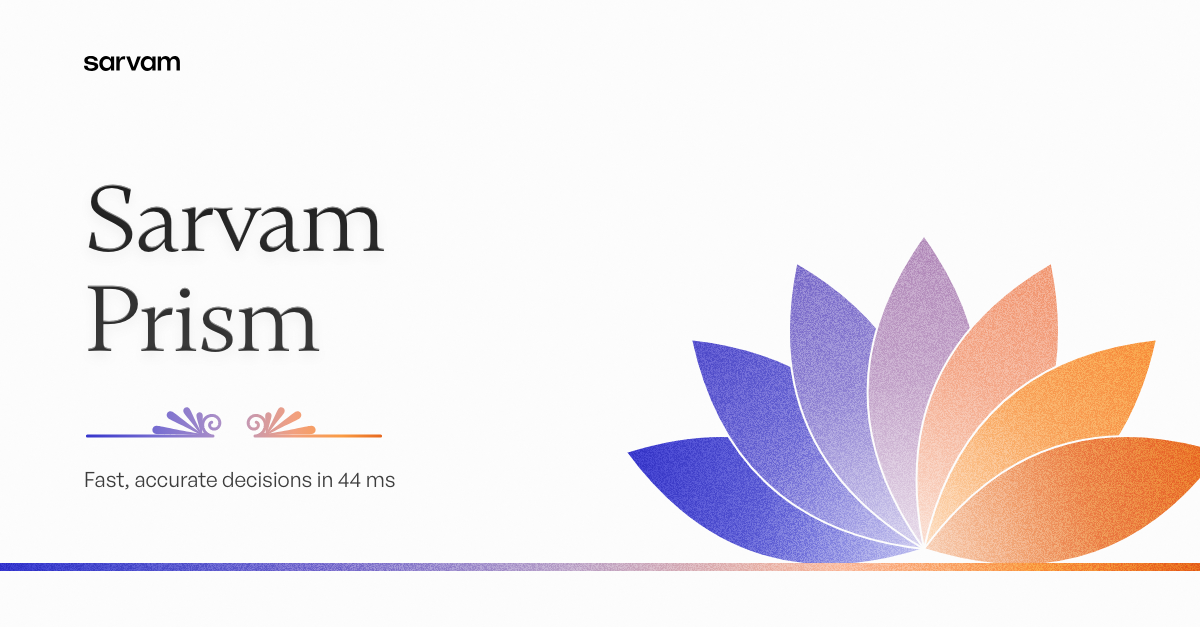
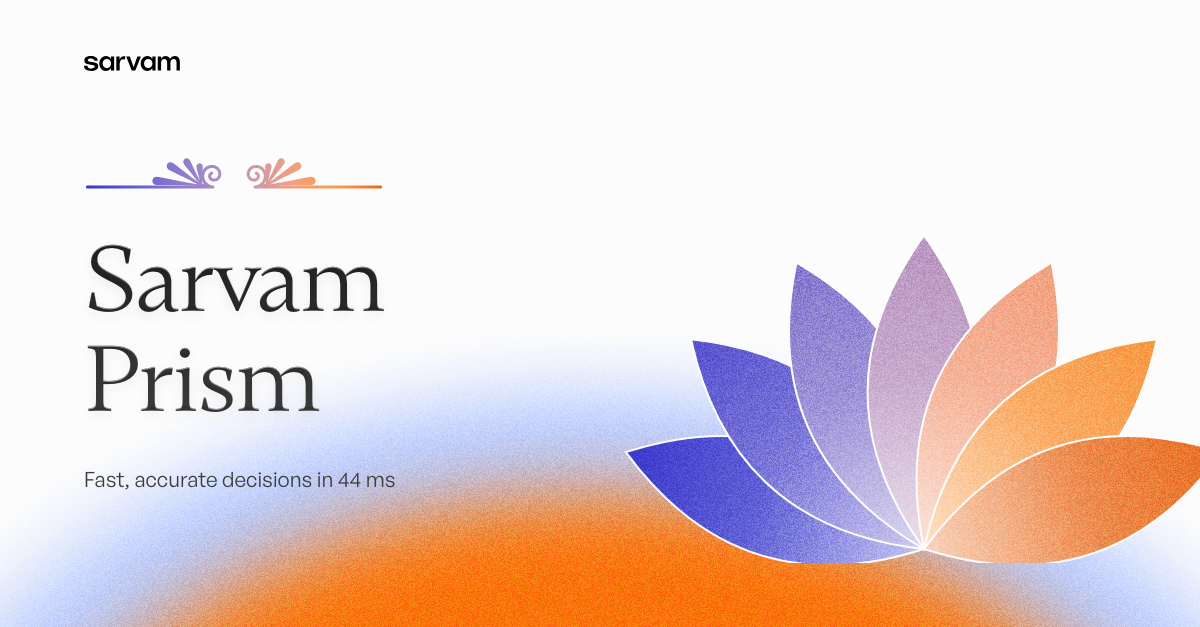
Prism rise: bottom sunrise horizon; dividers always above the headline

Changed region(s): [[0.0, 0.2424, 1.0, 1.0]]

diff --git a/src/components/sarvam/composer.tsx b/src/components/sarvam/composer.tsx
@@ -31,7 +31,8 @@ export type BannerSpec = {
   logo?: "wordmark" | "logomark";  // logomark = the official lotus symbol, used alone (logo.md: never beside the wordmark)
   card?: "plan" | "research" | "review";   // product moment shown inside the device (split / stacked only); arch-window shows it through the arch
   icon?: EmblemIcon;               // emblem device: the one object that stands for the subject
-  divider?: string;                // a /studio divider preset between headline and supporting line, drawn in the spectrum
+  divider?: string;                // a /studio divider preset ABOVE the headline (always the first thing in the text block), drawn in the spectrum
+  horizon?: "top" | "bottom";      // the hero's Sun gradient as a horizon from one edge, reaching about half way
   ornament?: Ornament;             // spectrum device: one SOLID shape in the spectrum (supersedes the line rosettes)
   place?: "corner" | "rise" | "center" | "small";   // where the ornament sits; the text takes the space it leaves
   petals?: number;                 // lotus / petal: petal count (corner/center: full flower; rise: an upward fan)
@@ -474,7 +475,8 @@ function ornamentDevice(spec: BannerSpec, F: Frame, id: string, land: boolean, s
         <defs><clipPath id={k("clip")}><rect x={0} y={0} width={F.W} height={stripY} /></clipPath></defs>
         <g clipPath={`url(#${k("clip")})`}>{els}</g>
       </svg>
-      <div aria-hidden style={{ position: "absolute", left: 0, right: 0, top: stripY, height: stripH, background: SPECTRUM }} />
+      {/* a bottom horizon replaces the strip (the horizon is the colour moment; a strip on it would sink) */}
+      {spec.horizon !== "bottom" && <div aria-hidden style={{ position: "absolute", left: 0, right: 0, top: stripY, height: stripH, background: SPECTRUM }} />}
     </>
   );
   const centred = !land && (place === "rise" || place === "center");
@@ -494,6 +496,16 @@ function SpectrumDivider({ name, width, id, dark }: { name: string; width: numbe
       </linearGradient></defs>
       <g dangerouslySetInnerHTML={{ __html: html }} />
     </svg>
+  );
+}
+
+/** Horizon: the /system hero's Sun disc (tokens --gradient-sun), entering from one edge so its arc reaches about half the
+ *  frame. The disc keeps the hero's proportions (1622 × 872, widened 1.35× like the hero); bottom = mirrored, a sunrise. */
+function Horizon({ W, H, edge }: { W: number; H: number; edge: "top" | "bottom" }) {
+  const dh = H, dw = (dh * 1622) / 872;                      // visible arc ≈ half the disc height = H / 2
+  return (
+    <div aria-hidden style={{ position: "absolute", left: (W - dw) / 2, top: (edge === "top" ? 0 : H) - dh / 2, width: dw, height: dh,
+      backgroundImage: "var(--gradient-sun)", transform: `scaleX(1.35)${edge === "bottom" ? " scaleY(-1)" : ""}`, pointerEvents: "none" }} />
   );
 }
 
@@ -763,6 +775,7 @@ function BannerImpl({ spec, format, id }: { spec: BannerSpec; format: BannerForm
   const markTone = DARK_BG.has(spec.background) ? "white" : "black";
   return (
     <div data-banner={format} style={{ position: "relative", width: F.W, height: F.H, overflow: "hidden", background: spec.background === "plain" ? "var(--color-sf)" : `var(--gradient-${spec.background})` }}>
+      {spec.horizon && <Horizon W={F.W} H={F.H} edge={spec.horizon} />}
       {layer}
       {/* Seamless grain: one pre-generated noise image (1200×1350, decoded once, no live filter) */}
       {/* eslint-disable-next-line @next/next/no-img-element */}
@@ -774,9 +787,9 @@ function BannerImpl({ spec, format, id }: { spec: BannerSpec; format: BannerForm
       {spec.mark === "bottom" && <Lockup logomark={spec.logo === "logomark"} tone={markTone} width={markW} partner={spec.partner} style={{ position: "absolute", bottom: land ? 36 : F.M, left: 0, right: 0, justifyContent: "center" }} />}
       <div data-qa="open" style={{ position: "absolute", left: open.x, top: open.y, width: open.w, height: open.h, display: "flex", flexDirection: "column", alignItems: align === "left" ? "flex-start" : "center", justifyContent: editorial ? D.textJustify ?? "flex-end" : layout === "split" ? "flex-start" : "center", gap: S.gap, textAlign: align }}>
         {spec.mark === "inside" && layout === "centered" && <Lockup logomark={spec.logo === "logomark"} tone={onLight ? "black" : "white"} width={markW} partner={spec.partner} style={{ marginBottom: S.gap * 0.7, opacity: onLight ? 0.9 : 1 }} />}
+        {spec.divider && <SpectrumDivider name={spec.divider} width={dividerW} id={id} dark={DARK_BG.has(spec.background)} />}
         {spec.secondaryPlace === "above" && secondary}
         {primary}
-        {spec.divider && <SpectrumDivider name={spec.divider} width={dividerW} id={id} dark={DARK_BG.has(spec.background)} />}
         {spec.secondaryPlace !== "above" && secondary}
       </div>
     </div>

diff --git a/design-system/design.md b/design-system/design.md
@@ -1990,7 +1990,7 @@ Every Sarvam banner is a **composition of a few choices + at most two lines of t
    | `gateway-echo` | 5 thin outline gateways rising from the bottom | Announcements |
       | `gloss` | Mirrored cluster of glossy studio shapes | Events, programs, community |
    | `spectrum` | **Our taste** `[addition]`: a calm off-white canvas, one thin hard-edged strip of the brand spectrum (indigo → orange) near the bottom, and a **rosette** in the top-right corner, cropped by the corner. It is built the way Sarvam's logomark is built: **one element repeated around a centre** `rosette`: **circles** (default: 12 equal circles through one centre, the logomark's construction), **lens** (8 broad vesica petals, a lotus about 1.3× the size of the line rosettes, petal width 0.36 × length; `rosetteSolid: true` fills each petal with a gradient from a pale tint of its hue at the centre to the full hue at the tip, with a 2.5px canvas-coloured edge between petals), **orbits** (6 equal ellipses turned by 30°), **rings** (6 concentric circles, the hue stepping outward), **lobes** (12 rounded petals). Every copy is the same line (4.5px Meta, 3.5px LinkedIn), and each one takes a hue of the spectrum by its direction: indigo toward the canvas, orange toward the corner. Text is set left and low (`editorial` layout). | Model launches and announcements that should feel calm and precise |
-   | `spectrum` + `ornament` | The spectrum family's **solid** shapes: `lotus` (`petals`), `quatrefoil`, `star`, `ogee`, `arch`, each filled with the spectrum (lotus petals: pale base → full hue; solids: a spectrum fill + a pale centre). `place`: **corner** (lotus cropped by the corner; solids whole in the top-right), **rise** (stands on the strip: an upward fan or the arch; on LinkedIn it moves right and the text goes left), **center** (a centred bloom above centred text; on LinkedIn the bloom goes right), **small**. `ornamentTone: "white"` for tone-on-tone. Optional `divider`: a /studio divider preset between headline and supporting line, drawn in the spectrum | One family, a different shape per subject |
+   | `spectrum` + `ornament` | The spectrum family's **solid** shapes: `lotus` (`petals`), `quatrefoil`, `star`, `ogee`, `arch`, each filled with the spectrum (lotus petals: pale base → full hue; solids: a spectrum fill + a pale centre). `place`: **corner** (lotus cropped by the corner; solids whole in the top-right), **rise** (stands on the strip: an upward fan or the arch; on LinkedIn it moves right and the text goes left), **center** (a centred bloom above centred text; on LinkedIn the bloom goes right), **small**. `ornamentTone: "white"` for tone-on-tone. Optional `divider`: a /studio divider preset **always above the headline** (the first thing in the text block), drawn in the spectrum. Optional `horizon: "bottom" | "top"`: the /system hero's Sun gradient entering from that edge and reaching about half the frame (bottom = a sunrise behind a rising lotus). A bottom horizon replaces the spectrum strip | One family, a different shape per subject |
    | `emblem` | One frosted, bevelled medallion with **one Nucleo icon engraved** in it, echo rings on true offsets. Text sits beside it (split on LinkedIn, stacked on Meta). `icon`: shield, plug, check, calendar, search, globe, inbox, megaphone, target, chart, book, sparkle, person | A capability you can name as an object |
    | `arch-window` | The gateway as a **window onto the real product**: a recessed arch (Mihrab / Domed door) standing on the bottom edge, light inside, one frozen product mock (`card`) seen through it. Text beside it | A product moment you can see |
    | `script-mandala` | **"Sarvam" in nine Indian scripts**, set in rings around a glowing disc. Meta: the headline sits in the disc. LinkedIn: the logomark sits in the disc and the text sits left (the wordmark is dropped; never both) `[addition]` | India, languages, mission, sovereignty, people |

diff --git a/design-system/recipes/banner-builder.md b/design-system/recipes/banner-builder.md
@@ -66,7 +66,7 @@ Every Sarvam banner is a **composition of a few choices + at most two lines of t
    | `gateway-echo` | 5 thin outline gateways rising from the bottom | Announcements |
       | `gloss` | Mirrored cluster of glossy studio shapes | Events, programs, community |
    | `spectrum` | **Our taste** `[addition]`: a calm off-white canvas, one thin hard-edged strip of the brand spectrum (indigo → orange) near the bottom, and a **rosette** in the top-right corner, cropped by the corner. It is built the way Sarvam's logomark is built: **one element repeated around a centre** `rosette`: **circles** (default: 12 equal circles through one centre, the logomark's construction), **lens** (8 broad vesica petals, a lotus about 1.3× the size of the line rosettes, petal width 0.36 × length; `rosetteSolid: true` fills each petal with a gradient from a pale tint of its hue at the centre to the full hue at the tip, with a 2.5px canvas-coloured edge between petals), **orbits** (6 equal ellipses turned by 30°), **rings** (6 concentric circles, the hue stepping outward), **lobes** (12 rounded petals). Every copy is the same line (4.5px Meta, 3.5px LinkedIn), and each one takes a hue of the spectrum by its direction: indigo toward the canvas, orange toward the corner. Text is set left and low (`editorial` layout). | Model launches and announcements that should feel calm and precise |
-   | `spectrum` + `ornament` | The spectrum family's **solid** shapes: `lotus` (`petals`), `quatrefoil`, `star`, `ogee`, `arch`, each filled with the spectrum (lotus petals: pale base → full hue; solids: a spectrum fill + a pale centre). `place`: **corner** (lotus cropped by the corner; solids whole in the top-right), **rise** (stands on the strip: an upward fan or the arch; on LinkedIn it moves right and the text goes left), **center** (a centred bloom above centred text; on LinkedIn the bloom goes right), **small**. `ornamentTone: "white"` for tone-on-tone. Optional `divider`: a /studio divider preset between headline and supporting line, drawn in the spectrum | One family, a different shape per subject |
+   | `spectrum` + `ornament` | The spectrum family's **solid** shapes: `lotus` (`petals`), `quatrefoil`, `star`, `ogee`, `arch`, each filled with the spectrum (lotus petals: pale base → full hue; solids: a spectrum fill + a pale centre). `place`: **corner** (lotus cropped by the corner; solids whole in the top-right), **rise** (stands on the strip: an upward fan or the arch; on LinkedIn it moves right and the text goes left), **center** (a centred bloom above centred text; on LinkedIn the bloom goes right), **small**. `ornamentTone: "white"` for tone-on-tone. Optional `divider`: a /studio divider preset **always above the headline** (the first thing in the text block), drawn in the spectrum. Optional `horizon: "bottom" | "top"`: the /system hero's Sun gradient entering from that edge and reaching about half the frame (bottom = a sunrise behind a rising lotus). A bottom horizon replaces the spectrum strip | One family, a different shape per subject |
    | `emblem` | One frosted, bevelled medallion with **one Nucleo icon engraved** in it, echo rings on true offsets. Text sits beside it (split on LinkedIn, stacked on Meta). `icon`: shield, plug, check, calendar, search, globe, inbox, megaphone, target, chart, book, sparkle, person | A capability you can name as an object |
    | `arch-window` | The gateway as a **window onto the real product**: a recessed arch (Mihrab / Domed door) standing on the bottom edge, light inside, one frozen product mock (`card`) seen through it. Text beside it | A product moment you can see |
    | `script-mandala` | **"Sarvam" in nine Indian scripts**, set in rings around a glowing disc. Meta: the headline sits in the disc. LinkedIn: the logomark sits in the disc and the text sits left (the wordmark is dropped; never both) `[addition]` | India, languages, mission, sovereignty, people |

diff --git a/process/prompt-log.md b/process/prompt-log.md
@@ -458,3 +458,10 @@ Entry format:
 ## 2026-11-04 — Spectrum family trimmed
 - Prompt (verbatim): "remove prism, bloom, fam approval, fam, slack, fam ally." (read as prism-bloom, fam-approval, fam-slack, fam-early)
 - Removed those four briefs and their PNGs. Spectrum banners left: `prism-spectrum` (corner lotus) and `prism-rise` (rising fan). The engine options (ornaments, placements, dividers) stay available.
+
+## 2026-11-04 — Prism rise: sunrise horizon; dividers above the title
+- Prompts (verbatim): "in Prism Rise have a horizon gradient wherever it looks best, either from top to bottom or bottom to top, only halfway through, wherever you think is best." · "Also the dividers should always be above the text content like they should be above the title."
+- Choice: **bottom**. The lotus already rises from the bottom edge, so the Sun gradient entering from below reads as a sunrise behind it. The text stays on the calm upper half.
+- Build: `horizon` reuses the /system hero's `--gradient-sun` disc (1622 × 872 proportions, widened 1.35× like the hero), mirrored, with its centre on the bottom edge, so the arc reaches about half the frame.
+- After looking: the spectrum strip sank into the orange and its orange end vanished, so a bottom horizon now replaces the strip.
+- Dividers moved above the headline everywhere, as a rule in banner-builder.md. QA PASS, prism-rise and prism-spectrum re-exported.
